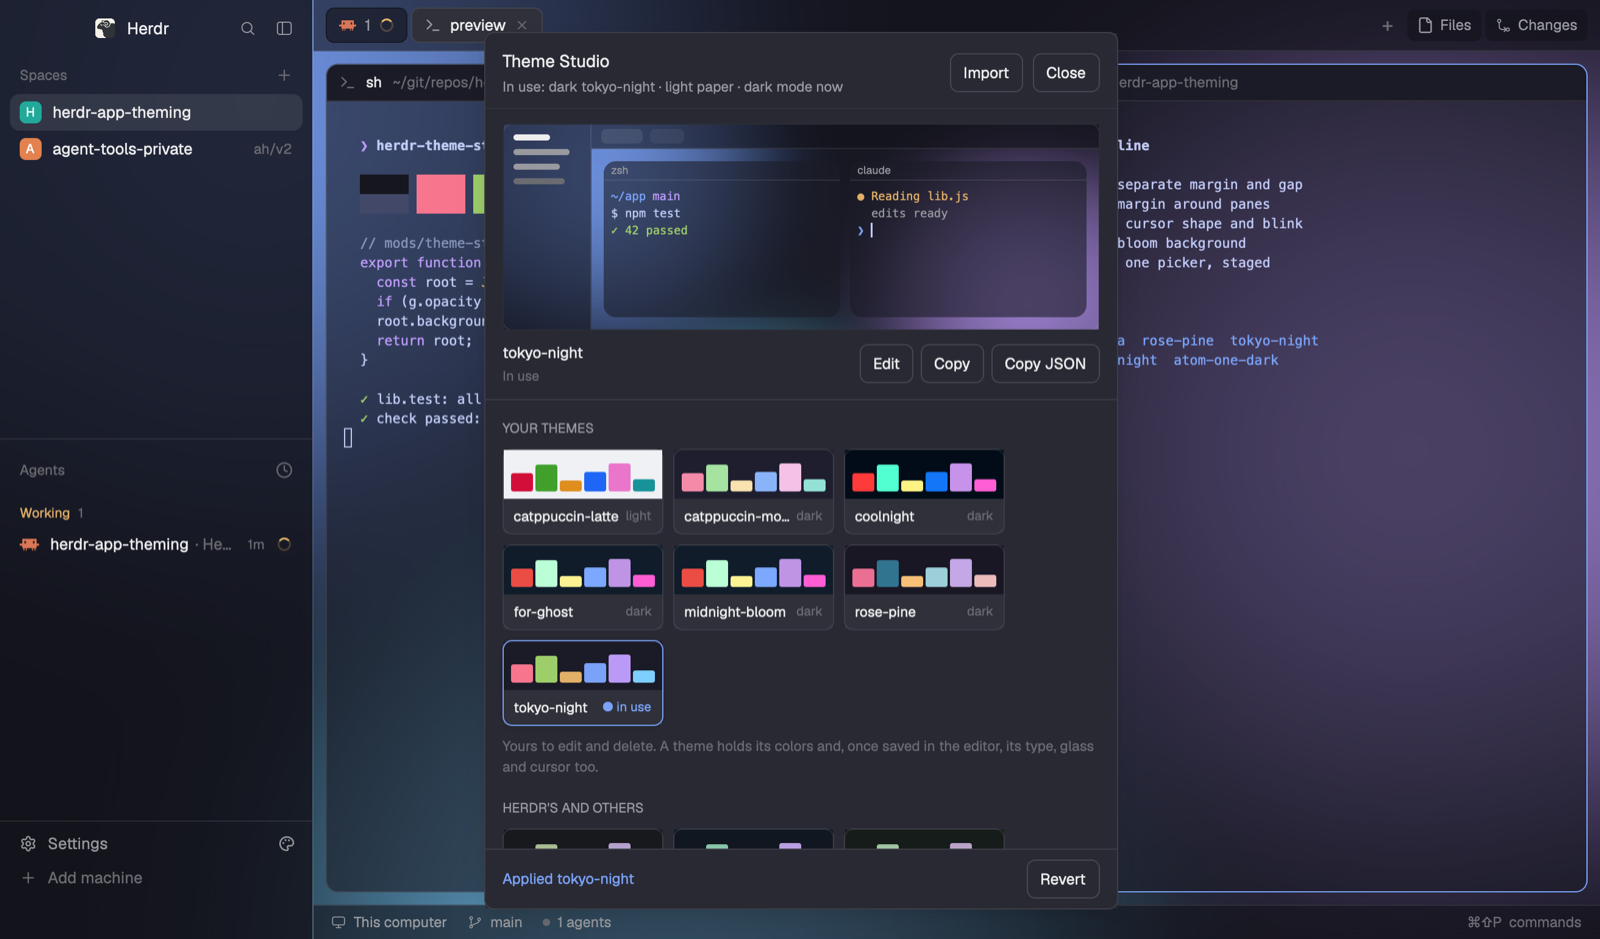
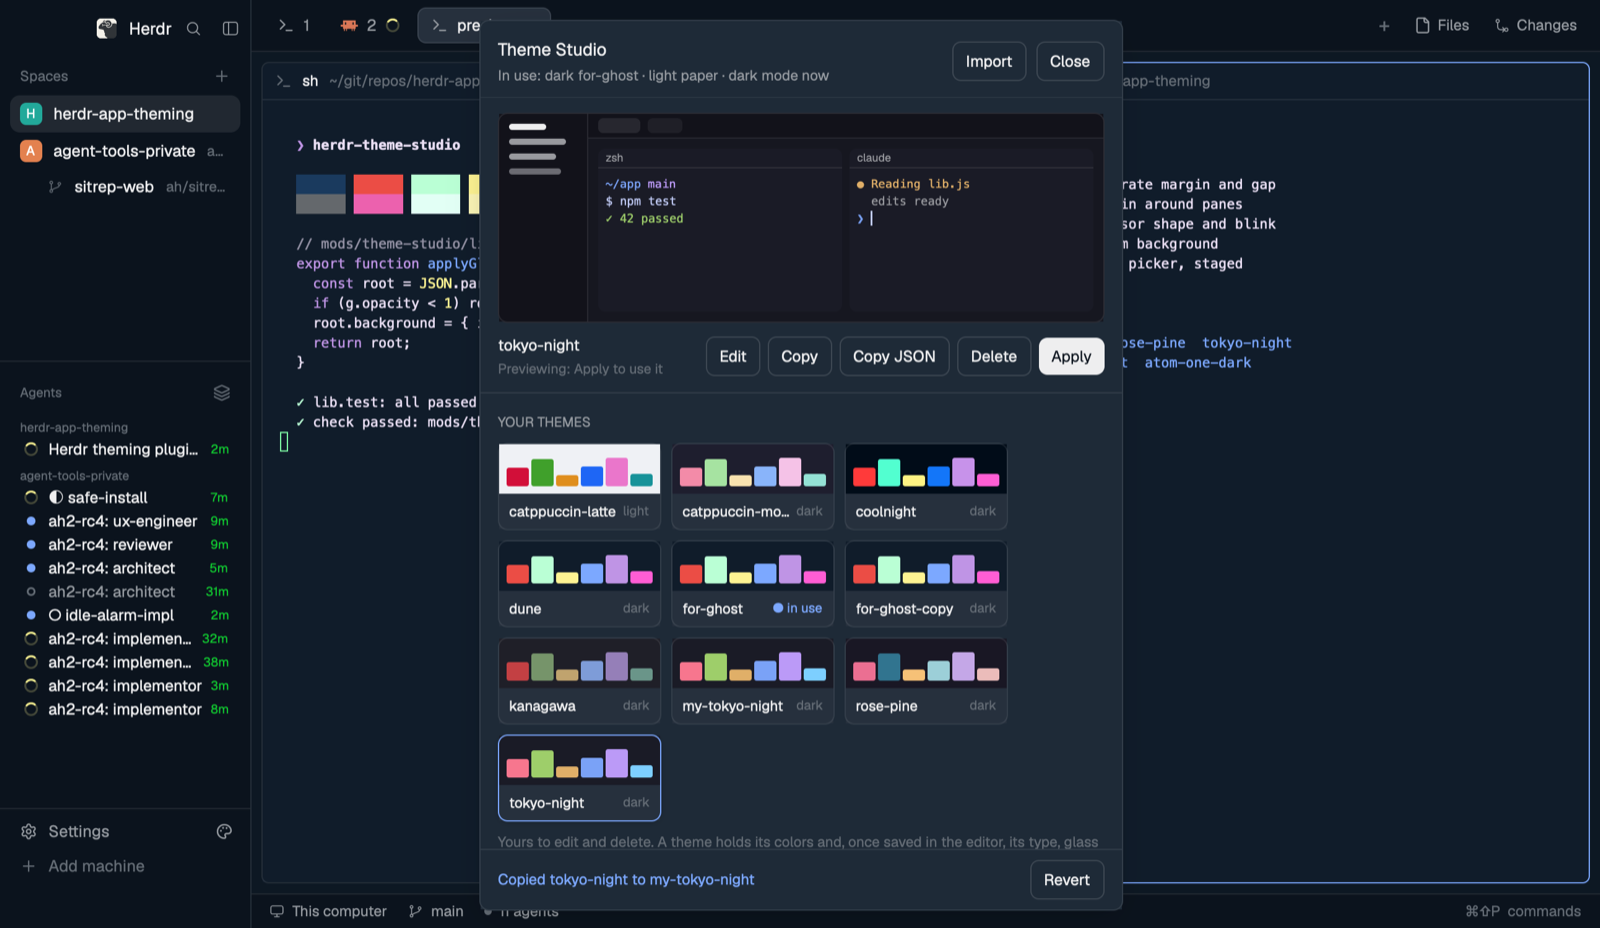
README: a tour with screenshots of every view, its options and their effect
Manager, import, and the editor's Colors, Type, Glass and Agents tabs, each with
a table of its options. Before/after shots of the window (solid vs Bloom glass)
and of the agents list (Herdr's vs Compact cards).

Claude-Session: https://claude.ai/code/session_01C6jtLMUvmADjTbxwyPycKJ

diff --git a/README.md b/README.md
@@ -26,10 +26,6 @@ Requires Herdr app 0.1.13 or later on macOS (Frosted wallpaper and Bloom are mac
 
 ![Theme Studio](preview.png)
 
-| Theme manager (Tokyo Night) | Editing colors (Rosé Pine) | Bloom glass, Studio closed (coolnight) |
-|---|---|---|
-| ![Theme manager](docs/screenshots/manager.png) | ![Editor, Colors tab](docs/screenshots/editor.png) | ![Bloom glass](docs/screenshots/window.png) |
-
 **Working on the source:** `./install.sh` copies `mods/theme-studio` into `~/.config/herdr-app` and
 binds `ctrl-shift-y` (needs node). `./install.sh --remove` takes both out; your themes, settings and
 layouts stay. Re-run it after each edit: Herdr's hot reload doesn't follow symlinks, so it copies. An
@@ -54,49 +50,130 @@ that folder and stay. Close and reopen the Studio afterwards.
   manager's Palette icon section adds or removes it, as does `button=on|off`; on Herdr's own layout
   `button=on` makes your copy first. On the narrow sidebar rail it gets its own row under Settings.
 
-## How it's laid out
+## A tour
 
-**The theme manager** is what opens. Pick a theme card to preview it in the mock window, then
-**Apply** to use it. Under the preview, the picked theme's actions: **Edit** (yours only), **Copy**
-or **Copy to edit**, **Copy JSON** (Herdr's theme format, for sharing), **Delete** (yours, when it's
-not in use). Your themes come first; Herdr's own and the bundled presets are locked, so you copy
-one to change it and the original stays as it was. **Import** (top right) opens the import view:
-iTerm2 (`.itermcolors`), Ghostty, kitty, Alacritty or Herdr JSON by paste, clipboard or dropping
-the file, plus any `.itermcolors` in Downloads and on the Desktop. An import joins Your themes;
-nothing changes until you apply it.
+The screenshots below are of a copy of Tokyo Night, edited step by step.
 
-**A theme holds everything:** its colors (`themes/<name>.json`) and, once saved in the editor,
-its type, glass and cursor (kept in shared state beside it). Applying a theme brings all of it.
-A theme with only colors (Herdr's, a preset, a fresh import) leaves type and glass as they are,
-and puts glass colors set by hex back to the theme's own. Picking a dark theme sets dark mode's
-theme, a light one light mode's.
+### The theme manager
 
-**The editor** opens from Edit, with four tabs. The theme becomes the one in use first, so the
-real window shows every change; a mock window above shows them too. Nothing is kept until
-**Save**. **Discard** drops the changes, and **← Themes** with unsaved changes asks first.
+![The theme manager, previewing Tokyo Night](docs/screenshots/manager.png)
 
-| Tab | Writes | Notes |
-|---|---|---|
-| Colors | `themes/<name>.json`; Behind panes goes on the layout | Every theme color, with WCAG contrast badges on text tokens. Click one to edit it with the color picker. Also the color behind panes, and the cursor: color (theme) plus shape (Block, Underline, Bar) and blink. Herdr only rereads a theme file when it's picked, so the Studio re-picks after each write. |
-| Type | `settings.json` (`font`, `font_size`, `ui_font`, `font_ligatures`, `minimum_contrast`) | A sample terminal shows picks at once (font, size, ligatures, contrast lift). Herdr rereads `settings.json` only every few seconds (up to about 10), so on your own layout copy fonts and size also go on the layout for 15 s and show at once. Fonts render in their own face. "Open fonts folder" is for `.ttf`/`.otf` files Herdr loads without installing them system-wide. |
-| Agents | shared `theme-studio.agents`; the layout's agents block | The sidebar's agents list: Comfortable (Herdr's own), Compact or Dense; rows on one line, two lines (the name on top, the detail, time and status under it), or two lines only when the name wouldn't fit; which leads a row that names both, the workspace or the session's title; sliders for row height, icon size, group header height, and the text size of agent names, group headers, the time since, the "Agents" title and the badge (the font stays the UI font), and switches for the time since, group headers, icons and the "Needs you" badge (off: a small !). Cards: colors for the name, detail, time, card background, border, the selected row and hover (unset ones follow the theme), the name's weight, corner radius, side padding, space between cards, the second line's text size, and the status (spinner, dot, Needs you) on the left or right. A mock list shows them before Save. Herdr's agents mod can't be edited, so once anything differs from Herdr's, your layout copy shows `mods/agents-studio`: a copy of Herdr's list, rebuilt from it on each Save, that reads these settings live. If a Herdr update changes the list too much to adjust, the Studio says so and keeps Herdr's. |
-| Glass | the shown layout, through `layout.set` | Herdr's own layouts refuse these fields, so the tab first makes your copy (`<layout>-studio`). Background: theme, a gradient in two colors you pick, Bloom (a base color with three soft glows, rendered into a picture), frosted wallpaper or image (Choose… opens the macOS file picker; you can also drop a picture, and one from outside Herdr's folder is copied into `backgrounds/`); the glass surfaces' opacity (their color is the theme's chrome and terminal color); pane radius, the margin around the panes, and the gap between them. |
+This is what opens. Click a theme card to preview it in the mock window at the top; nothing
+changes in the real window until **Apply**. Under the preview are the actions for the picked theme:
 
-12 presets ship in `presets/` (sources in `presets/SOURCES.md`); applying one copies it into `themes/`.
+- **Edit** opens the editor (your own themes only).
+- **Copy** makes your own copy under a new name. On a locked theme the button reads **Copy to edit**.
+- **Copy JSON** puts the theme on the clipboard in Herdr's format, for sharing.
+- **Delete** removes one of yours, when it's not in use.
 
+Your themes come first. Herdr's own themes and the 12 bundled presets (`presets/`, sources in
+`presets/SOURCES.md`) are locked: you copy one to change it, so the original stays as it was.
+Applying a preset copies it into `themes/`, so Herdr's Settings lists it too.
+
+**A theme holds everything.** Its colors live in `themes/<name>.json`. Once you save it in the editor,
+it also keeps its type, glass, cursor and agents-list settings, in shared state beside it.
+Applying the theme brings all of that back. A theme that has only colors (Herdr's, a preset, a fresh
+import) leaves your type, glass and agents list as they are, and resets glass colors you set
+by hex to the theme's own. Picking a dark theme sets dark mode's theme, and a light one sets light mode's.
+
+The **Palette icon beside Settings** section at the bottom adds or removes the sidebar icon.
 **Revert** (bottom right, after the first change) restores `settings.json`, the layout and the
-theme picks from the snapshot taken before the Studio's first write. Themes and layout copies
-it made stay on disk.
+theme picks from the snapshot taken before the Studio's first write. Themes and layout copies it
+made stay on disk.
 
-**Importing iTerm2 themes:** `.itermcolors` files in Downloads and on the Desktop are listed in
-the import view for one click. You can also drop a file on the import box, or copy it in Finder and press
-From clipboard. Binary and XML files both work. The first time, macOS asks whether Herdr may read
-Downloads or Desktop. That prompt can hide behind other windows, and until you answer it the
-import seems to do nothing.
+### Importing
 
-**Cursor shape:** Herdr has no setting for it, but its terminals follow the escape code shells
-send (DECSCUSR). Apply sends it to every open pane and writes `cursor.zsh` and `cursor-shape` in
-`~/.config/herdr-app`. For new panes, add the line the Colors tab copies for you to `~/.zshrc` once:
+![The import view](docs/screenshots/import.png)
+
+**Import** (top right of the manager) takes iTerm2 (`.itermcolors`, binary or XML), Ghostty,
+kitty, Alacritty (TOML) or Herdr JSON. You can paste the text, press **From clipboard** (a file copied in
+Finder works too) or drop the file on the box. Any `.itermcolors` files in Downloads and on the Desktop are
+listed at the top for one click. An imported theme joins Your themes, and nothing changes until you
+apply it. The first time, macOS asks whether Herdr may read Downloads or the Desktop. That prompt can
+hide behind other windows, and until you answer it the import seems to do nothing.
+
+### The editor
+
+**Edit** makes the theme the one in use, so the real window follows along, and opens four tabs.
+A mock window at the top of each tab shows changes as you make them. Nothing is kept until
+**Save**. **Discard** drops the changes, and **← Themes** asks first when there are unsaved changes.
+
+#### Colors
+
+![Colors tab, with the picker open on the cursor color](docs/screenshots/colors.png)
+
+| Option | What it changes |
+|---|---|
+| Every theme token: Surfaces, Lines, Text, Accent, Agent status, Terminal ANSI | The token everywhere Herdr uses it. Text tokens show a WCAG contrast badge against their background. Click a token to edit it with the picker (hue, saturation, lightness, alpha, or a hex). Saved to `themes/<name>.json`. |
+| Behind panes | The color in the gaps and margin around the panes, as a theme token or a hex. It goes on the layout. |
+| Cursor: Block, Underline, Bar; Blink; Color | The terminal cursor. The color is a theme token. Shape and blink go to every open pane. For new panes, add the line from **Copy line** to `~/.zshrc` once (see [Cursor shape](#cursor-shape)). |
+
+#### Type
+
+![Type tab, with a sample terminal](docs/screenshots/type.png)
+
+| Option | What it changes |
+|---|---|
+| Terminal font and size | `font` and `font_size` in `settings.json`. The menu draws each font in its own face. |
+| Use ligatures | `font_ligatures`: `!=` and `=>` join into single glyphs. |
+| Panels font | `ui_font`: the sidebar, tab bar and Herdr's panels. Their size follows Herdr's zoom (⌘+ / ⌘−). |
+| Minimum contrast: 1, 1.6, 3, 4.5, 7 | `minimum_contrast`: lifts terminal text that's too faint for its background. 1 leaves programs' colors alone. |
+| Open fonts folder | Herdr loads `.ttf` and `.otf` files from that folder without installing them system-wide. |
+
+The sample terminal shows each pick at once. Herdr rereads `settings.json` only every few seconds
+(up to about 10), so on your own layout copy the Studio also puts fonts and size on the layout for
+15 s, and the window changes right away.
+
+#### Glass
+
+![Glass tab, with a Bloom background](docs/screenshots/glass.png)
+
+| Option | What it changes |
+|---|---|
+| Presets: Solid, Tinted, Frosted | Starting points that set everything below at once. |
+| Window background: Theme, Gradient, Bloom, Frosted wallpaper, Image | What shows behind the panes. **Gradient** uses two colors you pick and an angle. **Bloom** uses a base color with three soft glows, plus a glow strength. **Frosted wallpaper** is your desktop picture, blurred. **Image**: **Choose…** opens the macOS file picker, or you can drop a picture or type a path. A picture from outside Herdr's folder is copied into `backgrounds/`. |
+| Sidebar and bar opacity | How much of the background shows through the sidebar and tab bar. They keep the theme's chrome color. |
+| Terminal opacity | How much shows through the terminals. They keep the theme's background color. |
+| Corner radius, Margin around panes, Gap between panes | The pane cards' shape and spacing. |
+
+Herdr's own layouts refuse these fields, so the first time, the tab makes your own copy of the
+layout (`<layout>-studio`). The same panes, before and after:
+
+| Solid (Tokyo Night as Herdr draws it) | Bloom, terminals at 0.72, sidebar at 0.6, radius 12 |
+|---|---|
+| ![Before: solid](docs/screenshots/window-solid.png) | ![After: Bloom glass](docs/screenshots/window-glass.png) |
+
+#### Agents
+
+![Agents tab, Compact with cards](docs/screenshots/agents.png)
+
+The sidebar's agents list. Herdr's own (left) and one with Compact density, cards, status on the left and
+no icons (right):
+
+![The agents list before and after](docs/screenshots/agents-compare.png)
+
+| Option | What it changes |
+|---|---|
+| Density: Comfortable, Compact, Dense | Row and header heights, the icon size and every text size at once. Comfortable is Herdr's own. |
+| Row layout: One line, Two lines, Two lines when needed | Two lines put the name on top and the detail, time and status under it. "When needed" does that only for a name that wouldn't fit, so it follows the sidebar's width. |
+| Row title: Workspace, Session | Which name leads a row that names both (when grouped by status, or pinned): the workspace, or the session's title. |
+| Cards: Name, Detail, Time, Card, Border, Selected, Hover colors | Each part's color. An unset color follows the theme; Card and Border are off until you pick one. |
+| Status: Left, Right | Where the spinner, dot or "Needs you" badge sits. On the left it's the small form, before the icon. |
+| Name weight | Regular, Medium, Semibold or Bold. |
+| Corner radius, Side padding, Space between cards | The cards' shape and spacing. |
+| Sizes, Text sizes | Row height, icon size, group header height; the text of agent names, group headers, the time since, the second line, the "Agents" title and the badge. The font stays the UI font. |
+| Show | The time since, group headers (Working, Pinned, …), agent icons, and the "Needs you" badge (off: a small !). |
+
+Herdr's agents mod can't be edited. So once anything here differs from Herdr's look, your layout copy
+shows `mods/agents-studio` instead: a copy of Herdr's list, rebuilt from Herdr's current one on each
+Save, that reads these settings live. If a Herdr update changes the list too much to adjust, the
+Studio says so and keeps Herdr's.
+
+### Cursor shape
+
+Herdr has no setting for it, but its terminals follow the escape code shells send (DECSCUSR). Save
+sends it to every open pane and writes `cursor.zsh` and `cursor-shape` in `~/.config/herdr-app`.
+For new panes, add the line the Colors tab copies for you to `~/.zshrc` once:
 `[[ -r ~/.config/herdr-app/cursor.zsh ]] && source ~/.config/herdr-app/cursor.zsh` (with your full
 path). The Studio never edits `~/.zshrc`. The hook re-sends the shape at each prompt in Herdr panes
 (`TERM_PROGRAM=ghostty`), since programs such as vim change it.
